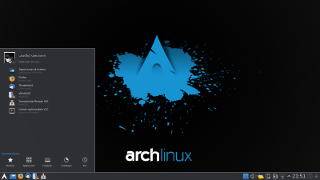
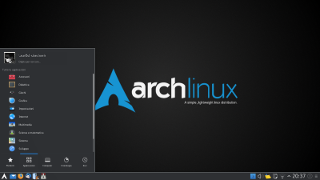
Modified Splash & LockScreen 	modified:   org.archlinux.archlinux/contents/lockscreen/LockScreen.qml 	modified:   org.archlinux.archlinux/contents/previews/preview.png 	modified:   org.archlinux.archlinux/contents/previews/splash.png 	modified:   org.archlinux.archlinux/contents/splash/Splash.qml

diff --git a/org.archlinux.archlinux/contents/lockscreen/LockScreen.qml b/org.archlinux.archlinux/contents/lockscreen/LockScreen.qml
@@ -34,13 +34,25 @@ Image {
     property UserSelect userSelect: null
     signal clearPassword()
 
-    source: backgroundPath || "../components/artwork/background.png"
-    fillMode: Image.PreserveAspectCrop
+    source: "../loginmanager/images/background.png"
+    fillMode: Image.Stretch
 
     onStatusChanged: {
         if (status == Image.Error) {
-            source = "../components/artwork/background.png";
+            source = "../loginmanager/images/background.png";
         }
+    }
+
+    Image {
+        id: archlinux
+        width: 450
+        height: 150
+        anchors.centerIn: parent
+        anchors.verticalCenterOffset: -75
+        anchors.horizontalCenterOffset: 0
+        fillMode: Image.PreserveAspectFit
+        transformOrigin: Item.Center
+        source: "../loginmanager/images/archlinux.png"
     }
 
     Connections {

diff --git a/org.archlinux.archlinux/contents/splash/Splash.qml b/org.archlinux.archlinux/contents/splash/Splash.qml
@@ -36,12 +36,12 @@ Image {
         }
     }
     Rectangle {
-        radius: 3
+        radius: 4
         color: "#ffffff"
         anchors.centerIn: parent
         anchors.horizontalCenterOffset: 0
         anchors.verticalCenterOffset: parent.height / 4
-        height: 8
+        height: 16
         width: height*32
         Rectangle {
             radius: 3
